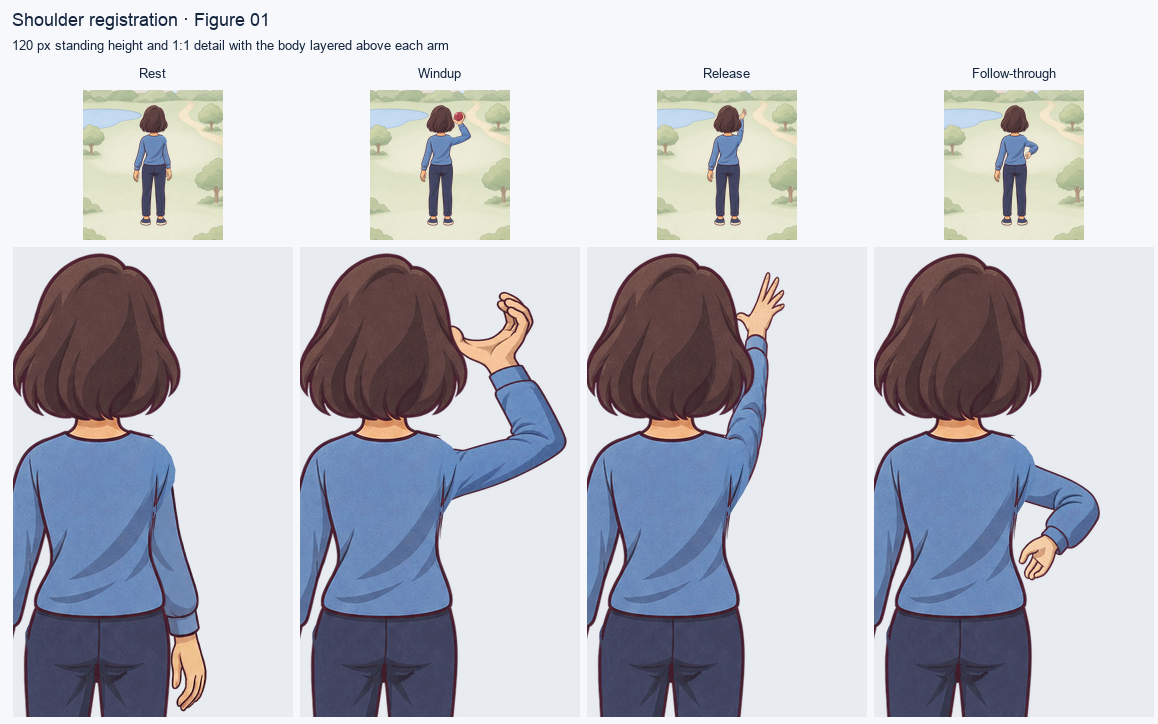
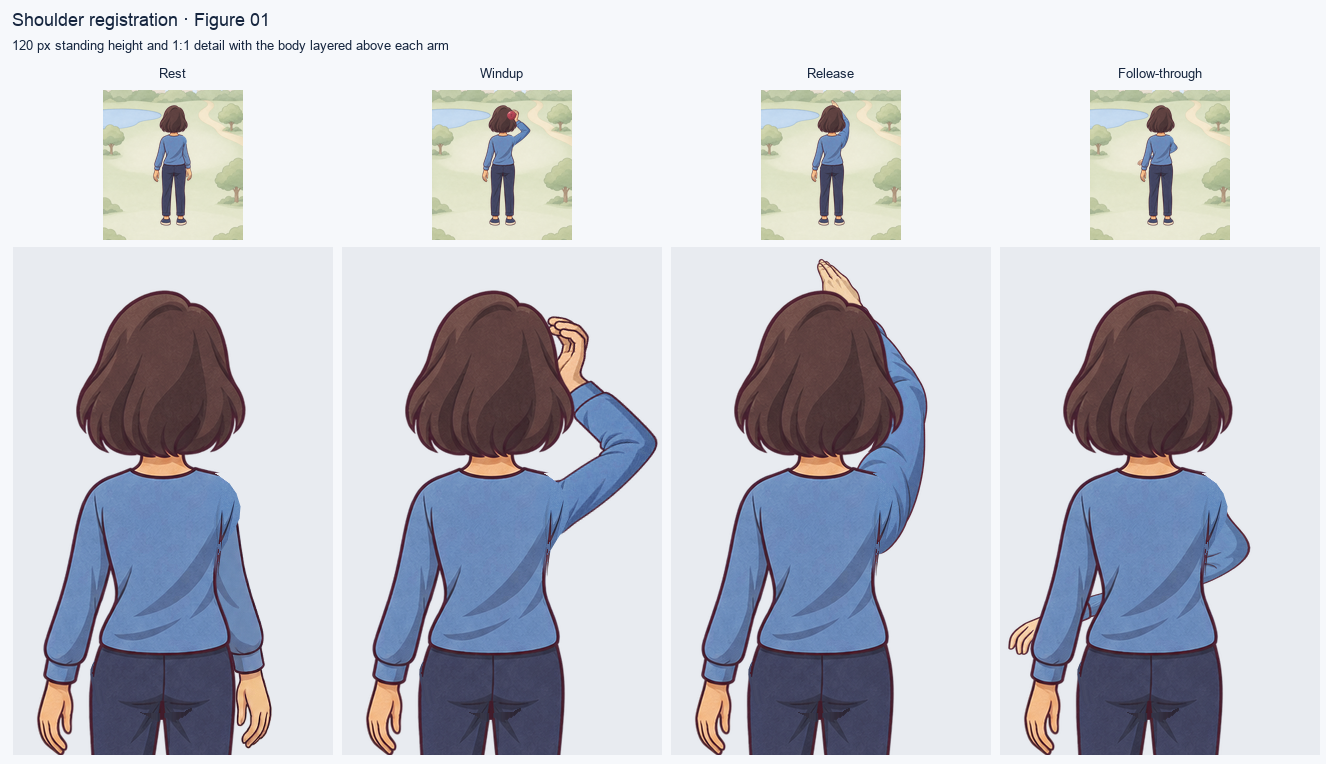
Revise figure 01 overhand throw after review

diff --git a/docs/TASKS.md b/docs/TASKS.md
@@ -74,6 +74,7 @@ Status: `todo` → `doing` → `review` (report sent to Claude) → `done`. Move
 | DF release | Combined DF1 and DF2 production release | Codex | Done 2026-11-20. Migration `20261120035407` was applied before setting production `EXPO_PUBLIC_DODGE_FIGHT=1`. [Vercel build](https://vercel.com/roy-s-mac-mini/time-capsule/FcvDPUMRduCp5g6cCZJvswirZSPt) from `a5d5022` passed. Acceptance covered Corrupted win, loss and leaving, Taipei 101's 20 HP and 150-second fight and reward, Today's Hunt 3/3 with free throws, and the portrait rigs. The four test accounts and their fixtures were removed and verified at zero. |
 | DF-polish | Dodge fight polish, warning labels and arrow controls, 5/6/7 HP, and the old flick fight retired from the app | Claude (app) / Codex (health migration and release) | Done 2026-11-20. Roy approved [PR #186](https://github.com/royai202600-cyber/time-capsule/pull/186) at `87c6d9f` after green CI. His account squash-merged `c771f6b`. Migration `20261120101629` was applied immediately after the merge and recorded in owner release `72d0d2f`. Vercel's retired `EXPO_PUBLIC_DODGE_FIGHT` variable was removed. Production checks at 375 px in zh/en confirmed a new common 5 HP fight, the shot and wave labels, the moving wave ring, arrows-only controls, and returning players skipping the tutorial. Disposable accounts and their fixtures were removed and verified at zero. |
 | DF-band | Dodge fight: bring back the demo's striped jump band with its text, and remove the attack warning sound | Claude (app) / Codex (review, merge, release) | Done 2026-11-20. Roy approved [PR #187](https://github.com/royai202600-cyber/time-capsule/pull/187) at `23b0963` after green CI. Squash `84fecd4` and owner release `372ced1` shipped the app-only change. The [production build](https://vercel.com/roy-s-mac-mini/time-capsule/BnjoNsX27HNWaoZ5LRwD6XbGRHgQ) passed at 375 px in Traditional Chinese and English. The striped band showed the localized jump label during the moving wave. Audio tracing confirmed silent wave and shot warnings and an audible throw. Both disposable accounts and their related rows were removed and verified at zero. |
+| DF throw art | Overhand throw arm layers for the back-view fight rigs | Codex | Revised figure 01 awaits Roy’s review in [draft PR #189](https://github.com/royai202600-cyber/time-capsule/pull/189). Figures 02–08 and WebP exports follow approval. |
 | HL-plan | Hunt loop plan and demo (`docs/design/hunt-loop.md`, `docs/design/demos/hunt-loop.html`) | Claude → Roy | Roy approved the direction 2026-11-18. Contracts and the wave work list are in the plan. |
 | HL-A1 | Five quest-type pictures for the circular pin window and one faceted pin frame in blue, brass and plum | Codex art (`codex/art-quest-types`) | Roy approved all five pictures and three frame colors at `e91fb44` in [PR #153](https://github.com/royai202600-cyber/time-capsule/pull/153). Green CI gates the art-only squash merge through Roy’s account. |
 | RV-plan | Regional vessels and Landmarks plan (`docs/design/regional-vessels.md`) | Claude → Roy | Updated 2026-11-15: draw what a place is known for, not its packaging; existing vessels unchanged; nine parallel art batches. Still open: Landmark picks, tram colour, whether new vessels start switched off. |

diff --git a/design/art/README.md b/design/art/README.md
@@ -10,7 +10,7 @@ The original SVG art remains in `src/art.js` and is recoverable from Git tag `ar
 
 ## Corrupted Capsule fight review
 
-Figure 01’s overhand throw is the approval sample. The cycle reuses the hanging arm for rest and layers the three new right arms under the existing body with either set of legs. The legacy arm-up stays in the rig. All three poses share the shoulder at (566, 393). The windup ball center is (618, 239), and the release starts from (622, 199). Follow-through has no ball point. [160 px frame strip](_checks/fight-01-throw.png) · [120 ms loop](_checks/fight-01-throw.gif) · [120 px and full-size shoulder checks](_checks/fight-01-throw-seams.png).
+Figure 01’s overhand throw is the approval sample. The cycle reuses the hanging arm for rest and layers the three new right arms under the existing body with either set of legs. The legacy arm-up stays in the rig. All three poses share the shoulder at (566, 393). The windup tucks the ball behind the head at (568, 230), and release starts from the fingertips over the crown at (515, 140). In follow-through the torso occludes the middle of the arm, leaving sleeve visible along the right contour and the cuff and partly hidden hand near the left hip. Follow-through has no ball point. [160 px frame strip](_checks/fight-01-throw.png) · [120 ms loop](_checks/fight-01-throw.gif) · [120 px and full-size shoulder checks](_checks/fight-01-throw-seams.png).
 
 | Figure | Motion at 120 and 64 px | Shoulder and hip close-ups |
 |---|---|---|
@@ -473,9 +473,9 @@ Option variation: Calm bright overcast light, airy broad slightly irregular tree
 | `characters/fight-01-body.png` | Head, torso, left arm, closed shoulder and full hip seat | 1024×1024 | test batch; see manifest |
 | `characters/fight-01-arm-down.png` | Relaxed hanging right arm | 1024×1024 | shared shoulder pivot |
 | `characters/fight-01-arm-up.png` | Overhead right arm with cupped hand | 1024×1024 | shoulder pivot and ball point in manifest |
-| `characters/fight-01-arm-windup.png` | Cocked overhand windup | 1024×1024 | shared shoulder pivot and held-ball point |
-| `characters/fight-01-arm-release.png` | Foreshortened forward reach with open hand | 1024×1024 | shared shoulder pivot and release point |
-| `characters/fight-01-arm-follow.png` | Right arm sweeps down and inward after release | 1024×1024 | shared shoulder pivot |
+| `characters/fight-01-arm-windup.png` | Cocked overhand windup, ball behind the head | 1024×1024 | shared shoulder pivot and held-ball point |
+| `characters/fight-01-arm-release.png` | Foreshortened forward reach over the crown, fingers together | 1024×1024 | shared shoulder pivot and release point |
+| `characters/fight-01-arm-follow.png` | Right arm sweeps across to the left hip | 1024×1024 | shared shoulder pivot |
 | `characters/fight-01-leg-left.png` | Left hip, trouser leg and shoe | 1024×1024 | test batch; see manifest |
 | `characters/fight-01-leg-right.png` | Right hip, trouser leg and shoe | 1024×1024 | test batch; see manifest |
 | `characters/fight-01-legs-jump.png` | Both legs bent with heels lifted | 1024×1024 | replaces both standing legs for the jump |

diff --git a/AGENTS.md b/AGENTS.md
@@ -83,6 +83,7 @@ A mobile-first web app for sending someone a sealed **capsule** that can only be
 - To run the production web app locally: `cd mobile && npm install && npm run web` → http://localhost:8088. Legal pages are also copied by `npx expo export --platform web`.
 
 ## Decisions log
+- 2026-11-20: Roy and Claude approved the figure 01 shoulder joins, standing and jump layering, and rest pose in draft PR #189. Roy asked to tuck the windup ball behind the head, reach over the crown at release, and follow through to the opposite hip. The revised figure 01 remains in draft for Roy’s review before figures 02–08.
 - 2026-11-20: After playing the polished fight, Roy asked to bring back the demo's striped jump band with its 「↑ 往上跳！」 text (only the moving rectangle was meant to go; the plum ring stays) and to remove the attack warning sound, since a sound right after a warning feels like being hit. Warnings are silent; sounds mean something landed.
 - 2026-11-20: After playing the live dodge fight, Roy asked for polish. The wave becomes the demo's glowing plum ring spreading across the ground. Warnings keep their short text (a triple shows 「撐住！」), and the control buttons lose theirs, showing only arrows. The how-to card shows only on a player's first fight, with a 「?」 button to reopen it. Hits show 「命中了！/很好！/漂亮！」 and 「被打中了」 with sound effects (no voices). Corrupted Capsule health is common 5, uncommon 6, rare 7, and Today's Hunt 5; Landmark stays 20. Roy chose a rare triple shot that can't be dodged. It never takes the last life and is capped at one per Corrupted fight and two per Landmark fight. Attacks follow weighted tables (see `docs/design/dodge-fight.md`). Gameplay runs on the device because the fight is PvE, it saves engineering time, and lag ruins a reaction game. Claude builds the UI; Codex does the backend.
 - 2026-11-20: Roy approved the combined DF1 and DF2 release after his phone check. The hosted dry run listed only `20261120035407`, which is now applied. Owner commit `a5d5022` records the regenerated public types. Vercel production uses `EXPO_PUBLIC_DODGE_FIGHT=1` and deployment `FcvDPUMRduCp5g6cCZJvswirZSPt` passed. Signed-in checks at 375 px and 1440 px in Traditional Chinese and English confirmed Corrupted wins, losses and leaving, single ball settlement on finish replay and three restored copies, Taipei 101's 20 HP and 150-second fight and its vessel and stamp, Today's Hunt 3/3 with free throws, and the matching back-view portraits. All disposable accounts and related fixtures were removed and their counts verified at zero.
